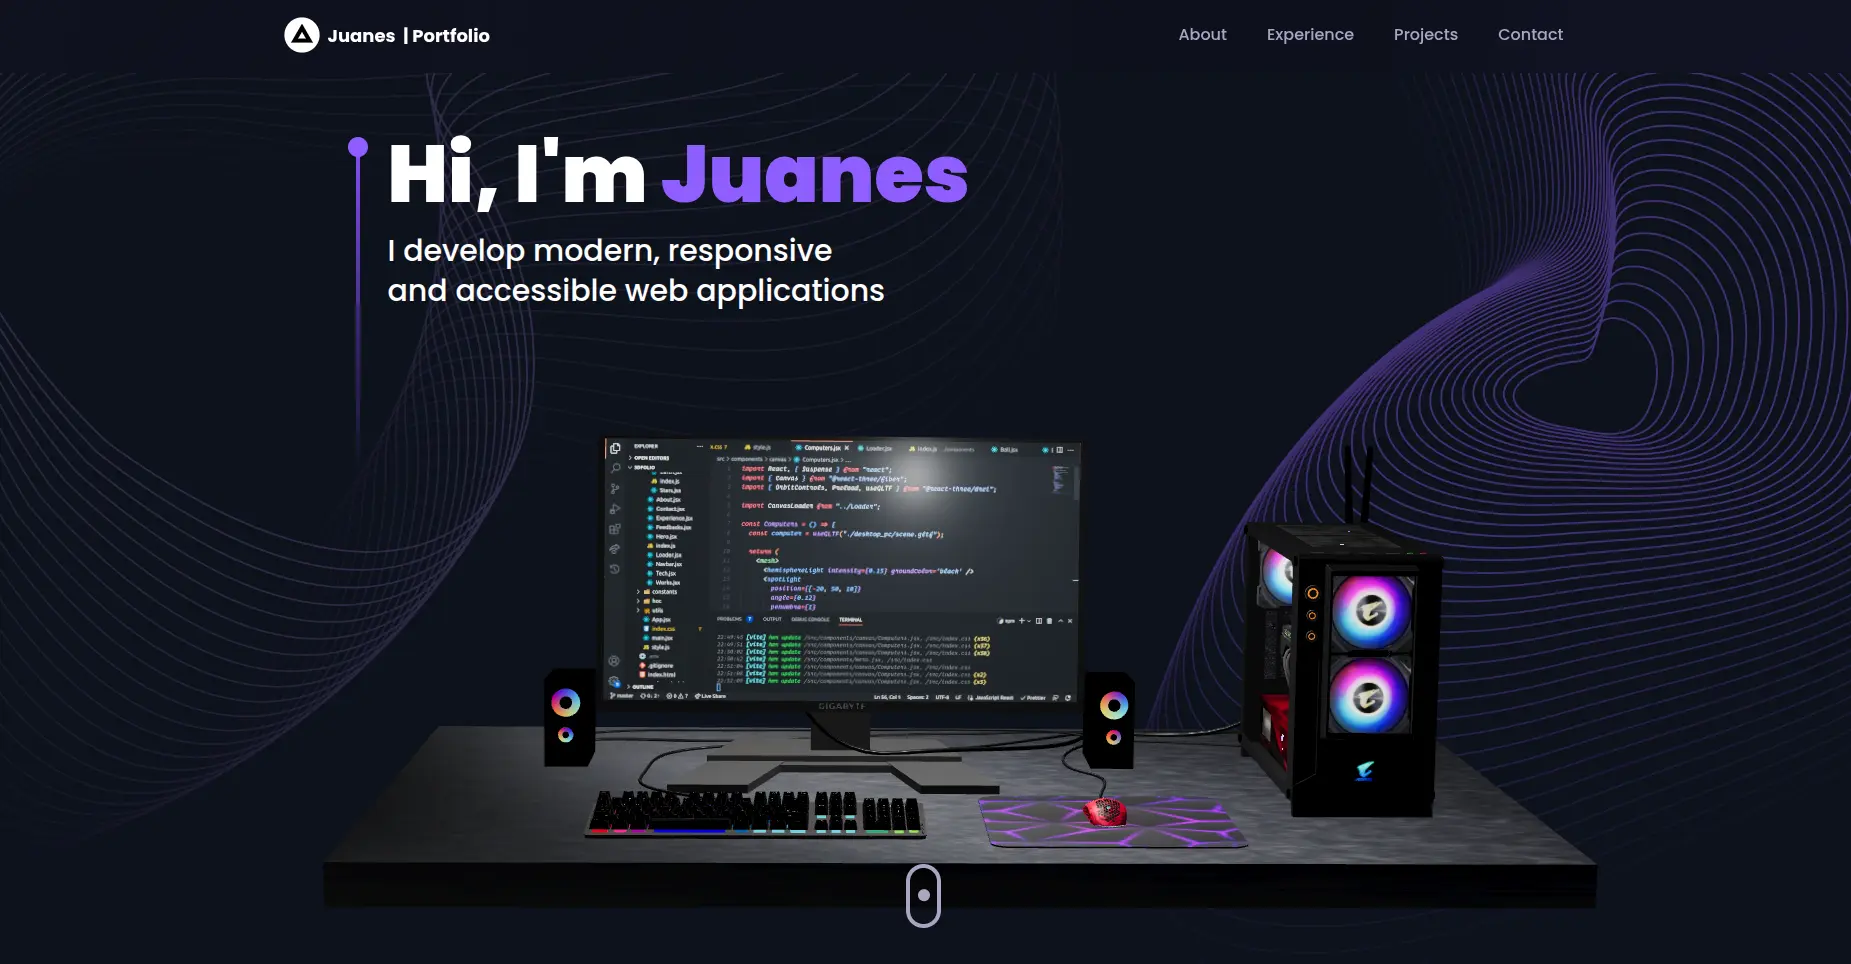
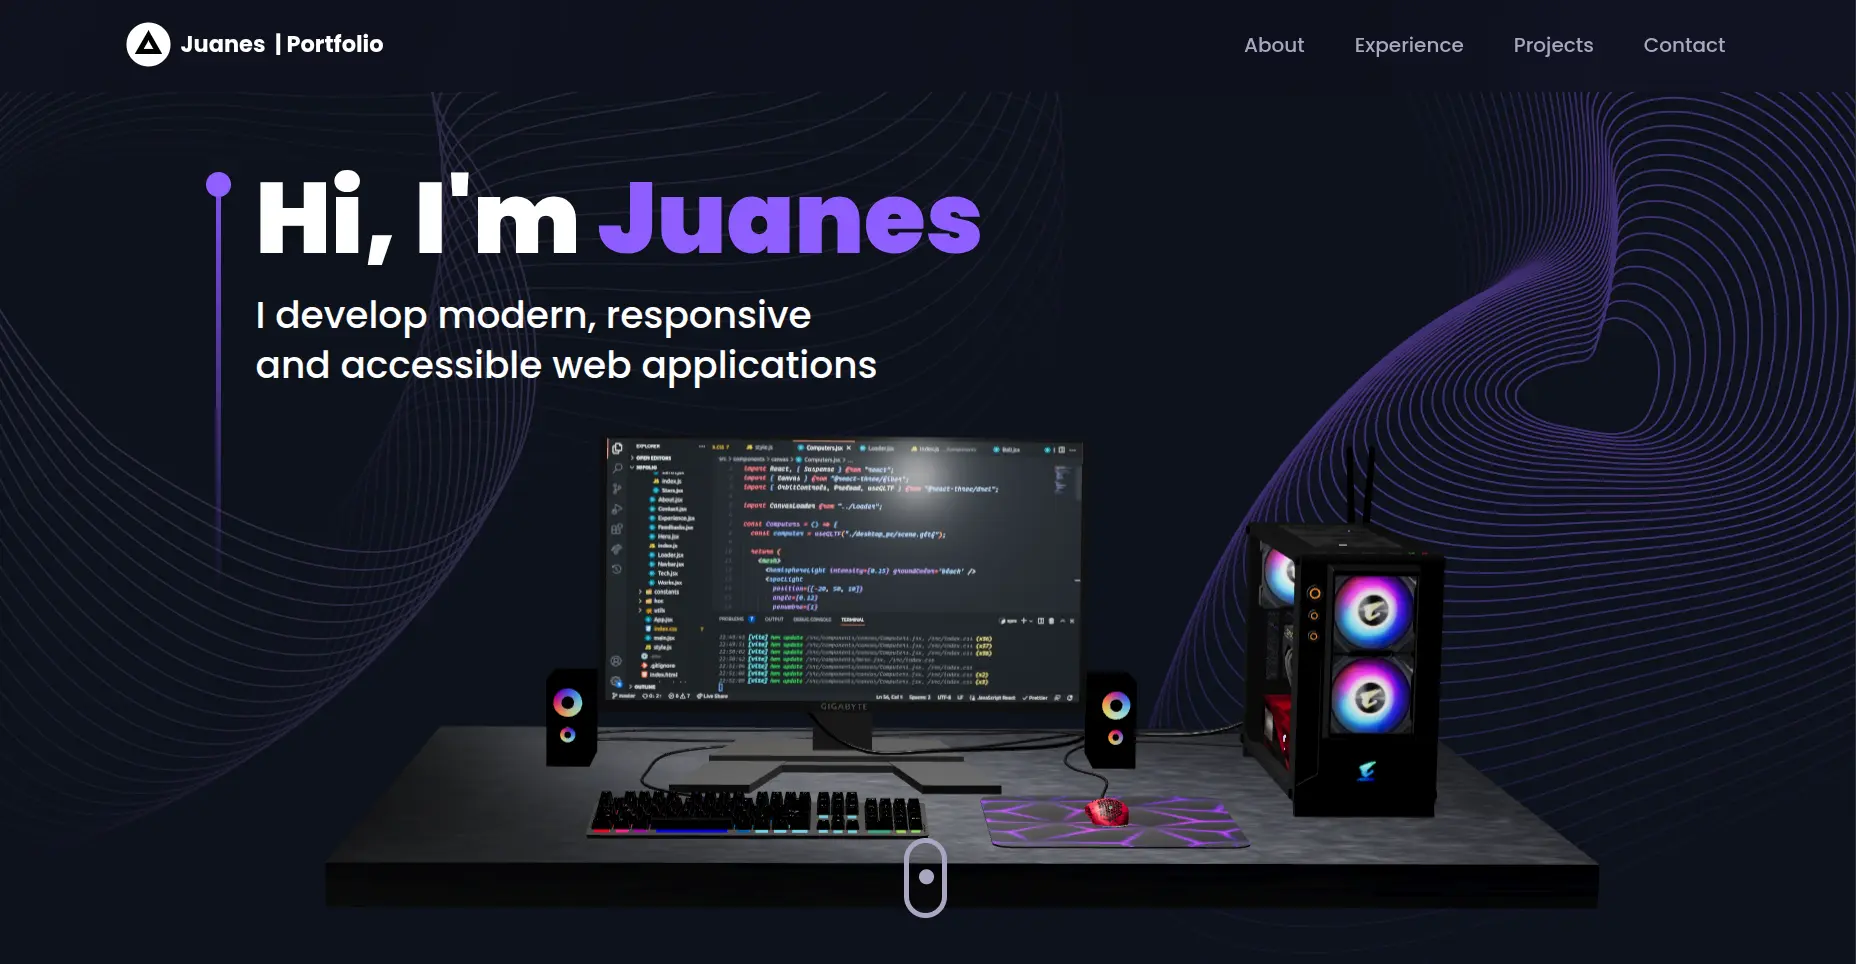
feat: ✨ add new projects to portfolio

diff --git a/src/data/lang/en/projects.ts b/src/data/lang/en/projects.ts
@@ -1,31 +1,59 @@
-import ProjectImage1 from "@/assets/images/projects/1.jpg"
-import ProjectImage2 from "@/assets/images/projects/2.jpg"
-import PortfolioImage from "@/assets/images/projects/portfolio-v1.webp"
+import CITImage from "@/assets/images/projects/cit.webp"
+import EndavaMarketplaceImage from "@/assets/images/projects/endava-marketplace.webp"
+import GastroGestProImage from "@/assets/images/projects/gastrogest-pro.webp"
+import GoMedicusGroupImage from "@/assets/images/projects/gomedicus-group.webp"
+import PortfolioV1Image from "@/assets/images/projects/portfolio-v1.webp"
+import TiffanyEstheticGroupImage from "@/assets/images/projects/tiffany-esthetic-group.webp"
+
 import type { Project } from "@/data/types.ts"
 
 export const projects: Project[] = [
 	{
-		name: "GoMedicus Group",
+		name: "Consultoría Integral de Transito (CIT)",
+		description: "A simple project",
+		technologies: ["Next.js", "TypeScript", "Google Analytics", "Tailwindcss"],
+		year: 2026,
+		deployUrl: "https://transitocitcali.com/",
+		imgSrc: CITImage,
+	},
+	{
+		name: "Tiffany Esthetic Group IPS",
 		description: "A simple project",
 		technologies: ["Next.js", "TypeScript", "Motion", "Tailwindcss"],
+		year: 2026,
+		deployUrl: "https://tiffany-esthetic-group-ips-sas.vercel.app/",
+		imgSrc: TiffanyEstheticGroupImage,
+	},
+	{
+		name: "GastroGest Pro",
+		description: "A simple project",
+		technologies: ["Next.js", "TypeScript", "Google Analytics", "Tailwindcss"],
+		year: 2026,
+		deployUrl: "https://gastrogestpro.com/",
+		imgSrc: GastroGestProImage,
+	},
+	{
+		name: "GoMedicus Group",
+		description: "A simple project",
+		technologies: ["Next.js", "TypeScript", "Motion", "Tailwindcss", "Swiper"],
 		year: 2025,
-		deployUrl: "",
-		imgSrc: ProjectImage1,
+		deployUrl: "https://www.gomedicusgroup.com/",
+		imgSrc: GoMedicusGroupImage,
 	},
 	{
 		name: "Endava Marketplace",
 		description: "A simple project",
 		technologies: [
-			"TypeScript",
 			"Vue",
+			"JavaScript",
 			"Tailwindcss",
 			"Vitest",
 			"Pinia",
 			"Sass",
 		],
 		year: 2023,
-		deployUrl: "",
-		imgSrc: ProjectImage2,
+		deployUrl: "https://endava-marketplace.vercel.app/",
+		imgSrc: EndavaMarketplaceImage,
 	},
 	{
 		name: "Portfolio V1",
@@ -33,6 +61,6 @@ export const projects: Project[] = [
 		technologies: ["JavaScript", "React", "Three.js", "Tailwindcss"],
 		year: 2022,
 		deployUrl: "https://portfolio-juanes.vercel.app/",
-		imgSrc: PortfolioImage,
+		imgSrc: PortfolioV1Image,
 	},
 ]

diff --git a/src/data/lang/es/projects.ts b/src/data/lang/es/projects.ts
@@ -1,31 +1,59 @@
-import ProjectImage1 from "@/assets/images/projects/1.jpg"
-import ProjectImage2 from "@/assets/images/projects/2.jpg"
-import PortfolioImage from "@/assets/images/projects/portfolio-v1.webp"
+import CITImage from "@/assets/images/projects/cit.webp"
+import EndavaMarketplaceImage from "@/assets/images/projects/endava-marketplace.webp"
+import GastroGestProImage from "@/assets/images/projects/gastrogest-pro.webp"
+import GoMedicusGroupImage from "@/assets/images/projects/gomedicus-group.webp"
+import PortfolioV1Image from "@/assets/images/projects/portfolio-v1.webp"
+import TiffanyEstheticGroupImage from "@/assets/images/projects/tiffany-esthetic-group.webp"
+
 import type { Project } from "@/data/types.ts"
 
 export const projects: Project[] = [
+	{
+		name: "Consultoría Integral de Transito (CIT)",
+		description: "Un proyecto sencillo",
+		technologies: ["Next.js", "TypeScript", "Google Analytics", "Tailwindcss"],
+		year: 2026,
+		deployUrl: "https://transitocitcali.com/",
+		imgSrc: CITImage,
+	},
+	{
+		name: "Tiffany Esthetic Group IPS",
+		description: "Un proyecto sencillo",
+		technologies: ["Next.js", "TypeScript", "Motion", "Tailwindcss"],
+		year: 2026,
+		deployUrl: "https://tiffany-esthetic-group-ips-sas.vercel.app/",
+		imgSrc: TiffanyEstheticGroupImage,
+	},
+	{
+		name: "GastroGest Pro",
+		description: "Un proyecto sencillo",
+		technologies: ["Next.js", "TypeScript", "Google Analytics", "Tailwindcss"],
+		year: 2026,
+		deployUrl: "https://gastrogestpro.com/",
+		imgSrc: GastroGestProImage,
+	},
 	{
 		name: "GoMedicus Group",
 		description: "Un proyecto sencillo",
 		technologies: ["Next.js", "TypeScript", "Motion", "Tailwindcss"],
 		year: 2025,
-		deployUrl: "",
-		imgSrc: ProjectImage1,
+		deployUrl: "https://www.gomedicusgroup.com/",
+		imgSrc: GoMedicusGroupImage,
 	},
 	{
 		name: "Endava Marketplace",
 		description: "Un proyecto sencillo",
 		technologies: [
-			"TypeScript",
 			"Vue",
+			"JavaScript",
 			"Tailwindcss",
 			"Vitest",
 			"Pinia",
 			"Sass",
 		],
 		year: 2023,
-		deployUrl: "",
-		imgSrc: ProjectImage2,
+		deployUrl: "https://endava-marketplace.vercel.app/  ",
+		imgSrc: EndavaMarketplaceImage,
 	},
 	{
 		name: "Portfolio V1",
@@ -33,6 +61,6 @@ export const projects: Project[] = [
 		technologies: ["JavaScript", "React", "Three.js", "Tailwindcss"],
 		year: 2022,
 		deployUrl: "https://portfolio-juanes.vercel.app/",
-		imgSrc: PortfolioImage,
+		imgSrc: PortfolioV1Image,
 	},
 ]

diff --git a/src/data/types.ts b/src/data/types.ts
@@ -69,6 +69,8 @@ export type Technologies =
 	| "Sass"
 	| "Three.js"
 	| "Motion"
+	| "Google Analytics"
+	| "Swiper"
 
 export interface Project {
 	name: string
